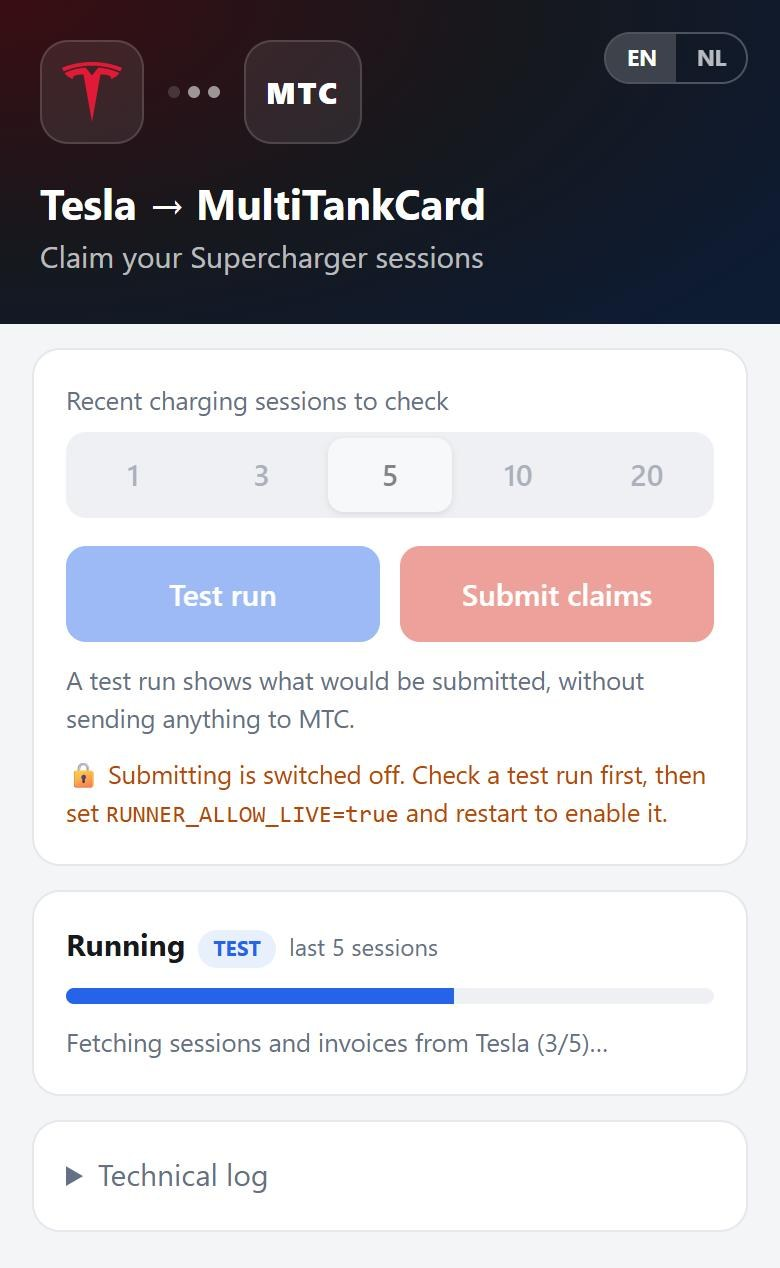
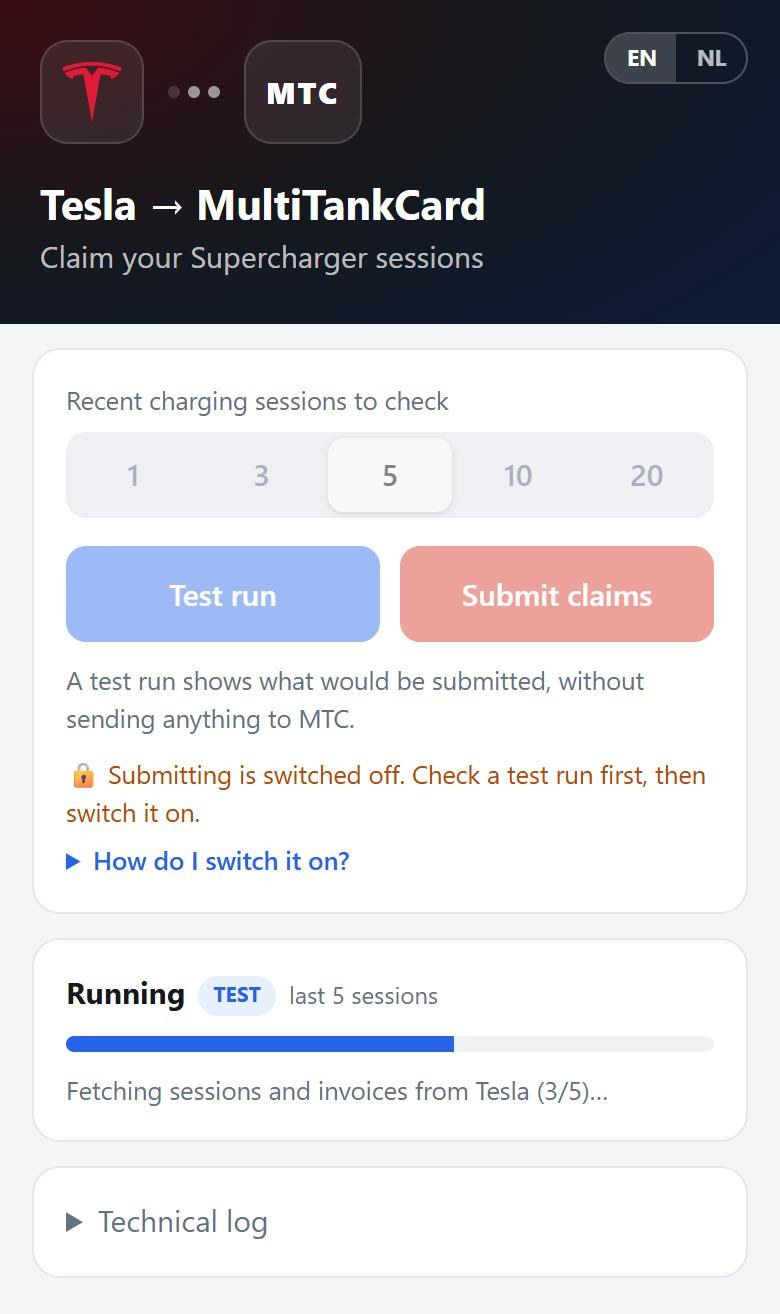
Explain where to switch submitting on, in the page and the docs
The lock note now has a "How do I switch it on?" section with the exact
steps (docker-compose.yml or Synology YAML Configurations, rebuild). Both
the page and the docs point out that the setting must be changed in
docker-compose.yml: a value in .env is overridden by the compose file.
Screenshots updated.

diff --git a/web/runner.py b/web/runner.py
@@ -107,8 +107,16 @@ TEXT = {
         "running": "Running",
         "step_start": "Starting", "step_fetch": "Fetching sessions and invoices from Tesla",
         "step_login": "Logged in to MTC", "step_session": "Processing session {i} of {n}",
-        "live_off": "Submitting is switched off. Check a test run first, then set "
-                    "<code>RUNNER_ALLOW_LIVE=true</code> and restart to enable it.",
+        "live_off": "Submitting is switched off. Check a test run first, then switch it on.",
+        "live_how": "How do I switch it on?",
+        "live_steps": "<li>Open <code>docker-compose.yml</code> in your tesla_mtc folder. On a Synology NAS: "
+                      "Container Manager → <b>Project</b> → your project → <b>YAML Configurations</b>.</li>"
+                      "<li>Under <code>environment:</code>, change <code>RUNNER_ALLOW_LIVE: \"false\"</code> "
+                      "to <code>RUNNER_ALLOW_LIVE: \"true\"</code>. Do this in <code>docker-compose.yml</code>, "
+                      "not in <code>.env</code>: the compose file wins.</li>"
+                      "<li>Apply it: <code>docker compose up -d</code>. On a Synology NAS: <b>Save</b>, then "
+                      "<b>Action → Build</b>. A restart alone is not enough.</li>"
+                      "<li>Reload this page: <b>Submit claims</b> is now available.</li>",
         "blocked_title": "Submitting blocked",
         "blocked_text": "The start script blocked submitting: the file "
                         "<code>allow/ALLOW_LIVE</code> is missing. Create it to allow submitting claims.",
@@ -160,8 +168,16 @@ TEXT = {
         "running": "Bezig",
         "step_start": "Opstarten", "step_fetch": "Laadsessies en facturen ophalen bij Tesla",
         "step_login": "Ingelogd bij MTC", "step_session": "Sessie {i} van {n} verwerken",
-        "live_off": "Declareren staat uit. Controleer eerst een proefrun, zet dan "
-                    "<code>RUNNER_ALLOW_LIVE=true</code> en herstart om het aan te zetten.",
+        "live_off": "Declareren staat uit. Controleer eerst een proefrun en zet het dan aan.",
+        "live_how": "Hoe zet ik dit aan?",
+        "live_steps": "<li>Open <code>docker-compose.yml</code> in je tesla_mtc-map. Op een Synology NAS: "
+                      "Container Manager → <b>Project</b> → je project → <b>YAML Configurations</b>.</li>"
+                      "<li>Verander onder <code>environment:</code> <code>RUNNER_ALLOW_LIVE: \"false\"</code> "
+                      "in <code>RUNNER_ALLOW_LIVE: \"true\"</code>. Doe dit in <code>docker-compose.yml</code>, "
+                      "niet in <code>.env</code>: het compose-bestand wint.</li>"
+                      "<li>Pas het toe: <code>docker compose up -d</code>. Op een Synology NAS: <b>Save</b> en "
+                      "daarna <b>Action → Build</b>. Alleen herstarten is niet genoeg.</li>"
+                      "<li>Laad deze pagina opnieuw: <b>Declareren</b> is nu beschikbaar.</li>",
         "blocked_title": "Declareren geblokkeerd",
         "blocked_text": "Het startscript blokkeerde declareren: het bestand "
                         "<code>allow/ALLOW_LIVE</code> ontbreekt. Maak het aan om declareren toe te staan.",
@@ -453,6 +469,11 @@ button{width:100%;padding:14px 10px;font:600 1em system-ui,sans-serif;border:0;b
 button:disabled{opacity:.45;cursor:default}
 .hint{color:var(--muted);font-size:.85em;margin:10px 0 0}
 .hint.off{color:var(--warn)}
+.how{margin-top:6px;font-size:.85em}
+.how summary{cursor:pointer;color:var(--accent);font-weight:600}
+.how ol{margin:8px 0 0;padding-left:20px;color:var(--muted)}
+.how li{margin:4px 0}
+.how code{white-space:nowrap}
 .hint code,.banner code{font-size:.95em}
 .pick{border:0;margin:0 0 14px;padding:0}
 .pick legend{font-size:.85em;color:var(--muted);margin-bottom:6px;padding:0}
@@ -564,7 +585,10 @@ def render(snap, lang, picked):
                  f'<div class="seg">{seg}</div></fieldset><div class="btns">'
                  f'<button class="dry" {dis}>{f("dry")}</button>{live_trigger(f("live"), dis)}'
                  f'</div><p class="hint">{f("hint")}</p>'
-                 + ("" if ALLOW_LIVE else f'<p class="hint off">🔒 {f("live_off")}</p>')
+                 + ("" if ALLOW_LIVE else
+                    f'<p class="hint off">🔒 {f("live_off")}</p>'
+                    f'<details class="how"><summary>{f("live_how")}</summary>'
+                    f'<ol>{f("live_steps")}</ol></details>')
                  + '</form>')
 
     if running:

diff --git a/docs/web-runner.md b/docs/web-runner.md
@@ -98,7 +98,7 @@ Then open `http://localhost:8080`. Settings from the [table below](#settings) ca
 
 <img src="images/1-first-start.jpg" alt="The page on first start" width="300">
 
-Submitting is still switched off (the 🔒 note). That is intentional: first check that a test run gives the result you expect.
+Submitting is still switched off (the 🔒 note). That is intentional: first check that a test run gives the result you expect. *How do I switch it on?* shows the steps for later; they are also in [step 4](#4-switch-submitting-on).
 
 The row of numbers sets **how many recent charging sessions are checked**. Choose enough to cover everything since your last claim. Already-claimed sessions are recognised and skipped, so checking a few too many is harmless. The default comes from `MAX_SESSIONS` in `.env`; after that the page remembers your last choice.
 
@@ -122,12 +122,28 @@ The **Technical log** at the bottom shows tesla_mtc's own output, which helps wh
 
 ### 4. Switch submitting on
 
-When the test run looks right, set `RUNNER_ALLOW_LIVE: "true"` in `docker-compose.yml` and apply it:
+When the test run looks right, switch submitting on in **`docker-compose.yml`**. The page shows the same steps under *How do I switch it on?*.
 
-- **Docker Compose:** `docker compose up -d`
-- **Synology:** edit the YAML under Project → `tesla_mtc` → *YAML Configurations*, save, and build the project again when asked.
+1. Open `docker-compose.yml`:
+   - **Docker Compose:** the file in your tesla_mtc folder;
+   - **Synology:** Container Manager → **Project** → `tesla_mtc` → **YAML Configurations**.
+2. Under `environment:`, change `"false"` to `"true"`:
 
-The 🔒 note disappears and **Submit claims** becomes available.
+   ```yaml
+       environment:
+         UNKNOWN_COUNTRY_ACTION: SKIP
+         RUNNER_ALLOW_LIVE: "true"
+   ```
+
+   Change it here, **not in `.env`**. `docker-compose.yml` sets `RUNNER_ALLOW_LIVE` itself, and that value wins over the one in `.env`.
+3. Apply the change:
+   - **Docker Compose:** `docker compose up -d`
+   - **Synology:** click **Save**, then **Action → Build**.
+
+   A plain restart is not enough: the container has to be recreated to pick up the new setting.
+4. Reload the page. The 🔒 note is gone and **Submit claims** is available.
+
+To switch submitting off again, set it back to `"false"` the same way.
 
 ### 5. Submit
 
@@ -162,7 +178,7 @@ Web interface settings, set under `environment:` in `docker-compose.yml`:
 
 | Setting | Default | Meaning |
 |---|---|---|
-| `RUNNER_ALLOW_LIVE` | `false` | `true` enables submitting. Test runs always work. |
+| `RUNNER_ALLOW_LIVE` | `false` | `true` enables submitting; see [Switch submitting on](#4-switch-submitting-on). Test runs always work. |
 | `RUNNER_TOKEN` | *(empty)* | When set, the page only opens with `?token=<value>` in the URL, and API calls need the header `Authorization: Bearer <value>`. |
 | `RUNNER_PORT` | `8080` | Port inside the container. To change the port on your server, change the left number under `ports:` instead. |
 | `TZ` / `RUNNER_TZ` | `Europe/Amsterdam` | Time zone for times on the page. |
@@ -244,7 +260,7 @@ After updating, do a test run and open the **Technical log**: its first lines sh
 | Problem | Solution |
 |---|---|
 | The page does not open | Check the container is running and the port under `ports:`. On a NAS, check the firewall allows the port. |
-| **Submit claims** is greyed out with a 🔒 note | Submitting is off: set `RUNNER_ALLOW_LIVE: "true"` and restart. |
+| **Submit claims** is greyed out with a 🔒 note | Submitting is off. Follow [Switch submitting on](#4-switch-submitting-on). Set it in `docker-compose.yml`, not `.env`, and rebuild rather than restart. |
 | "Run failed" | Open the **Technical log** on the page. Common causes: an expired `TESLA_REFRESH_TOKEN`, or wrong MTC login details in `.env`. |
 | Error about `skip.txt` / *Is a directory* | Docker created a folder because `skip.txt` did not exist. Remove the folder, create an empty `skip.txt` file and restart. |
 | A session you claimed by hand is **Ready to submit** | Put its Tesla session ID in MTC's note field, or add it to `skip.txt`. |
